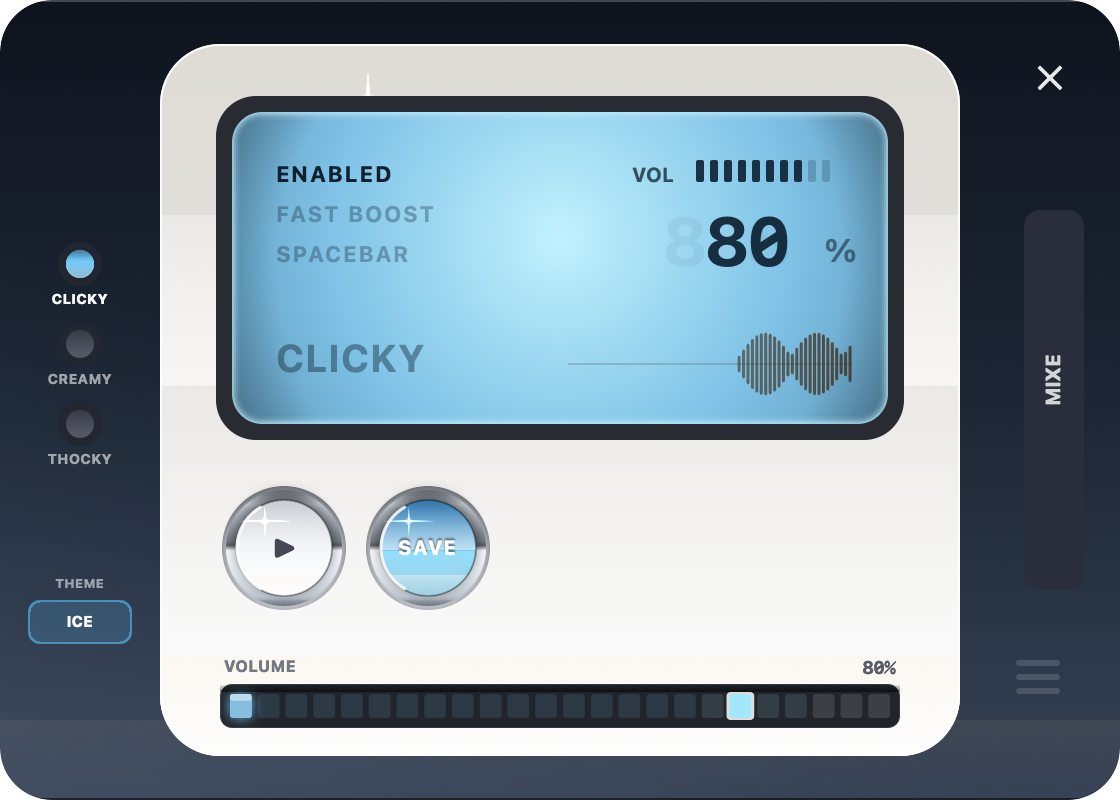
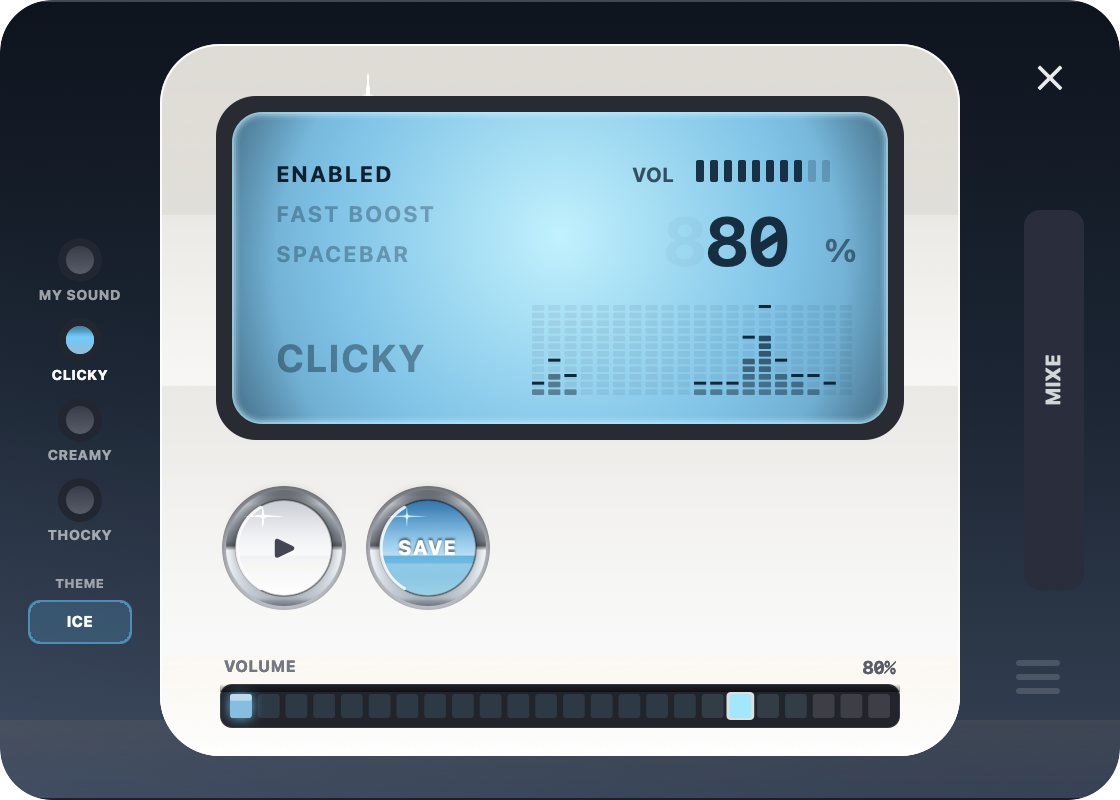
Panel QA: adaptive lamp stack, remove doubled gloss seam
The lamp stack was hard-capped at prefix(4). With four packs already
present, the next one added would have worked in the menu bar but been
silently invisible on the panel. Spacing is now derived from the column
height and the run is centred, so it holds two packs or eight; labels
hide and fall back to tooltips if spacing gets too tight for them.

Buttons had two hard edges landing near the equator — a flip in the cap
gradient at 0.46/0.50 plus the gloss overlay terminating at 52%. Together
they read as a moulding seam rather than a highlight. The base gradient
is now smooth and the gloss layer owns the single terminator, eased out
instead of cut square. Bottom bounce widened and softened so it stops
banding.

diff --git a/Sources/Klack/PlasticSkinViews.swift b/Sources/Klack/PlasticSkinViews.swift
@@ -1141,35 +1141,35 @@ final class RoundButton: NSButton {
         path.addClip()
         if isAccent {
             Plastic.gradient([
-                (0.00, th.accentTop.highlight(withLevel: 0.35) ?? th.accentTop),
-                (0.46, th.accentTop),
-                (0.50, th.accentMid),
+                (0.00, th.accentTop.highlight(withLevel: 0.30) ?? th.accentTop),
+                (0.55, th.accentMid),
                 (1.00, th.accentBottom),
             ])?.draw(in: rect, angle: pressed ? 90 : -90)
         } else {
             Plastic.gradient([
                 (0.00, NSColor(white: 1.0, alpha: 1)),
-                (0.46, NSColor(srgbRed: 0.965, green: 0.970, blue: 0.980, alpha: 1)),
-                (0.50, NSColor(srgbRed: 0.895, green: 0.905, blue: 0.925, alpha: 1)),
+                (0.55, NSColor(srgbRed: 0.925, green: 0.935, blue: 0.950, alpha: 1)),
                 (1.00, NSColor(srgbRed: 0.78, green: 0.80, blue: 0.83, alpha: 1)),
             ])?.draw(in: rect, angle: pressed ? 90 : -90)
         }
 
         // Broad specular across the top half, hard-terminated at the equator —
         // the same trick that makes the plate read as lacquered.
-        let gloss = NSRect(x: rect.minX, y: rect.minY, width: rect.width, height: rect.height * 0.52)
+        let gloss = NSRect(x: rect.minX, y: rect.minY, width: rect.width, height: rect.height * 0.58)
         Plastic.gradient([
-            (0.00, NSColor(white: 1, alpha: pressed ? 0.30 : 0.62)),
-            (0.85, NSColor(white: 1, alpha: 0.06)),
+            (0.00, NSColor(white: 1, alpha: pressed ? 0.26 : 0.55)),
+            (0.55, NSColor(white: 1, alpha: 0.20)),
+            (0.86, NSColor(white: 1, alpha: 0.04)),
             (1.00, NSColor(white: 1, alpha: 0.0)),
         ])?.draw(in: gloss, angle: -90)
 
         // Warm bounce along the lower rim.
-        let bounce = NSRect(x: rect.minX, y: rect.maxY - rect.height * 0.22,
-                            width: rect.width, height: rect.height * 0.22)
+        let bounce = NSRect(x: rect.minX, y: rect.maxY - rect.height * 0.34,
+                            width: rect.width, height: rect.height * 0.34)
         Plastic.gradient([
-            (0, NSColor(white: 1, alpha: 0)),
-            (1, Plastic.bounceLight.withAlphaComponent(0.40)),
+            (0.0, NSColor(white: 1, alpha: 0)),
+            (0.6, Plastic.bounceLight.withAlphaComponent(0.10)),
+            (1.0, Plastic.bounceLight.withAlphaComponent(0.26)),
         ])?.draw(in: bounce, angle: -90)
         NSGraphicsContext.restoreGraphicsState()
 

diff --git a/Sources/Klack/ShowcaseWindowController.swift b/Sources/Klack/ShowcaseWindowController.swift
@@ -198,8 +198,21 @@ final class ShowcaseWindowController: NSWindowController, NSWindowDelegate {
 
     private func buildLamps(into chassis: NSView) {
         let packs = audioEngine?.availableProfiles ?? []
-        for (i, name) in packs.prefix(4).enumerated() {
-            let cy = 132 + CGFloat(i) * 40
+
+        // The stack has to survive the user adding packs. Spacing shrinks to
+        // fit the column instead of a fixed step overflowing the chassis, and
+        // the run is centred so it stays balanced at two packs or eight.
+        let columnTop: CGFloat = 96
+        let columnBottom: CGFloat = 284      // clear of the THEME button below
+        let available = columnBottom - columnTop
+        let count = max(1, packs.count)
+        let spacing = min(40, available / CGFloat(count))
+        let firstCY = columnTop + (available - spacing * CGFloat(count - 1)) / 2
+        // Below this the label can't fit under the lamp without colliding.
+        let showLabels = spacing >= 28
+
+        for (i, name) in packs.enumerated() {
+            let cy = firstCY + CGFloat(i) * spacing
             let lamp = LEDLamp(frame: NSRect(x: 29, y: cy - 11, width: 22, height: 22))
             lamp.isLit = (name == audioEngine?.currentProfile)
             lamp.identifier = NSUserInterfaceItemIdentifier(name)
@@ -212,7 +225,12 @@ final class ShowcaseWindowController: NSWindowController, NSWindowDelegate {
             label.textColor = NSColor(white: 1, alpha: lamp.isLit ? 0.85 : 0.35)
             label.alignment = .center
             label.backgroundColor = .clear
+            label.lineBreakMode = .byTruncatingTail
             label.frame = NSRect(x: 6, y: cy + 13, width: 68, height: 10)
+            label.isHidden = !showLabels
+            // With labels suppressed the lamp still needs to identify itself.
+            label.toolTip = ClickAudioEngine.label(for: name)
+            lamp.toolTip = ClickAudioEngine.label(for: name)
             chassis.addSubview(label)
 
             lamps.append((name, lamp, label))
